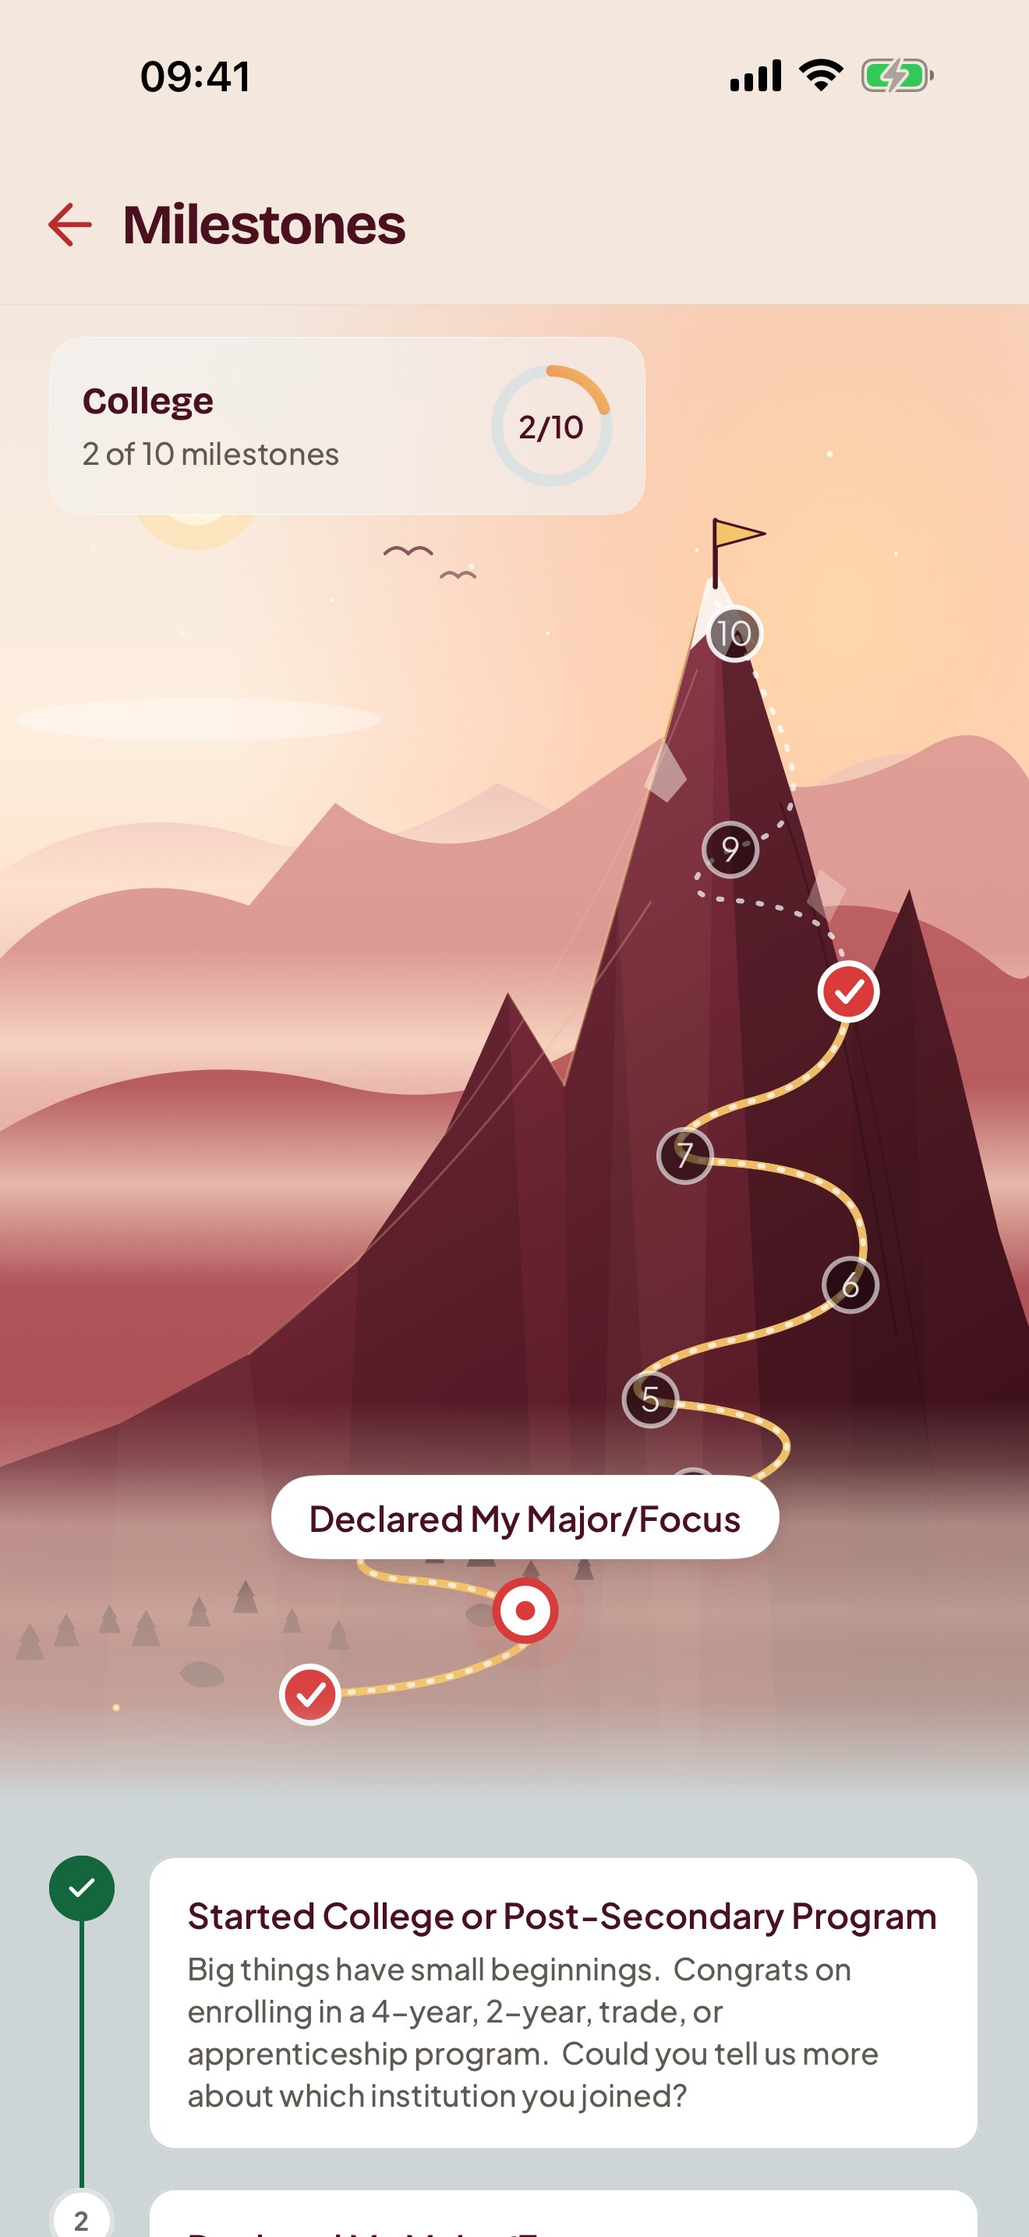
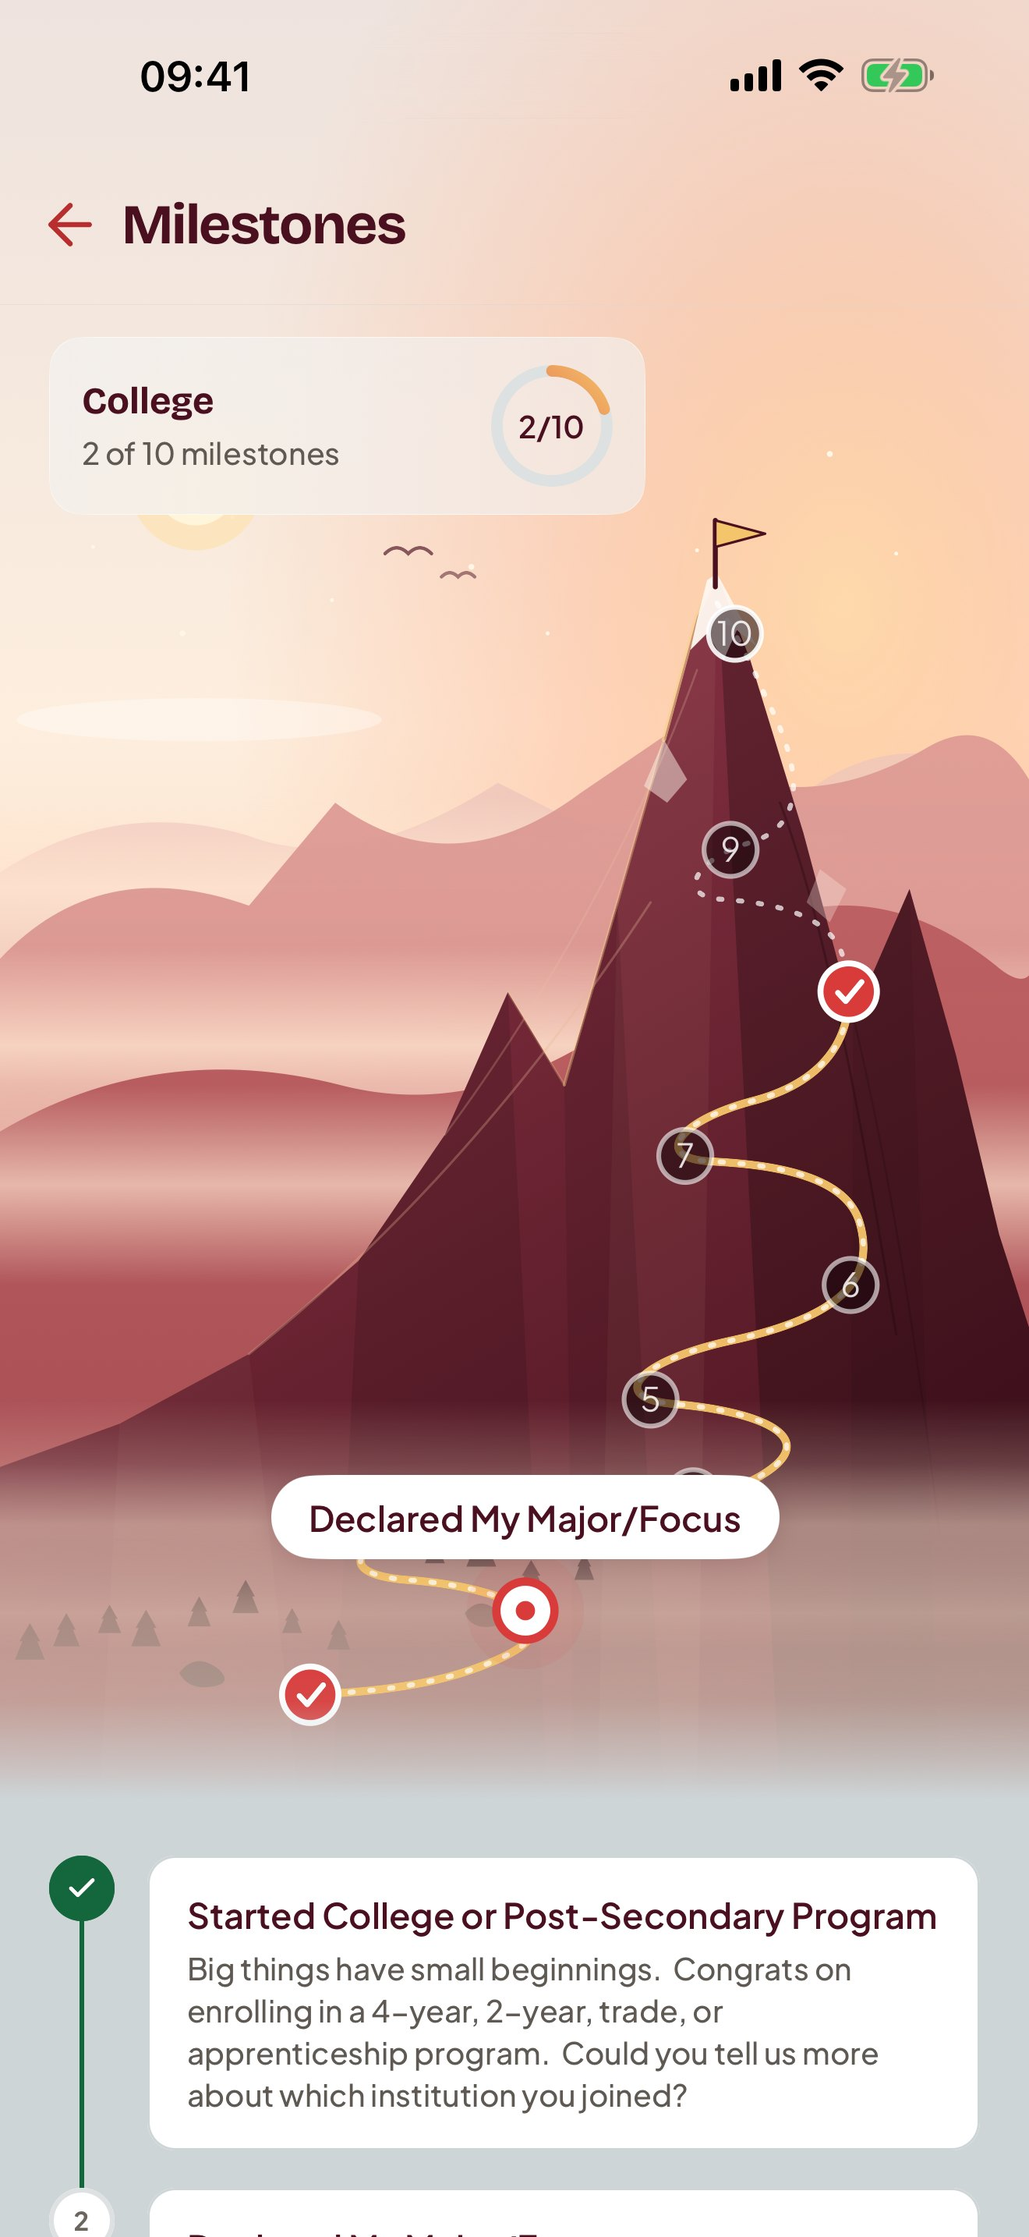
Frame 06 recaptured: the Milestones sky now runs up through the header
Same frame on the current build. The Sep 4 capture predates cf7d5dd and 8c3133e,
so its header was a flat cream band with a hard edge under the title.

Changed region(s): [[0.497, 0.0, 1.0, 0.1552]]

diff --git a/index.html b/index.html
@@ -501,7 +501,7 @@ body.export .frame-wrap .frame { transform: none; }
 
 <div class="store">
   <div class="store-header">
-    <img class="store-icon" src="assets/icon-b-1024.png?v=202609042205?v=2" alt="P3 app icon">
+    <img class="store-icon" src="assets/icon-b-1024.png?v=202609070821?v=2" alt="P3 app icon">
     <div class="store-meta">
       <h1>P3: Pulse of Perseverance</h1>
       <div class="subtitle">Empower Education &amp; Mentorship</div>
@@ -523,9 +523,9 @@ body.export .frame-wrap .frame { transform: none; }
         <div class="frame-wrap" data-zoom="frame-01">
           <div class="frame" id="frame-01">
             <div class="pano open-pair">
-              <div class="pano-watermark"><img src="assets/campus-bg.jpg?v=202609042205" alt=""></div>
+              <div class="pano-watermark"><img src="assets/campus-bg.jpg?v=202609070821" alt=""></div>
               <div class="brand-col">
-                <img class="wordmark" src="assets/p3-logo-horizontal.png?v=202609042205" alt="P3 Pulse of Perseverance">
+                <img class="wordmark" src="assets/p3-logo-horizontal.png?v=202609070821" alt="P3 Pulse of Perseverance">
                 <div class="statement">The career<br>accelerator<br>for the <em>next<br>generation.</em></div>
                 <div class="index">
                   <div class="row">
@@ -556,7 +556,7 @@ body.export .frame-wrap .frame { transform: none; }
               </div>
               <div class="device tilt">
                 <div class="screen">
-                  <img class="capture" src="captures/home.jpg?v=202609042205" alt="P3 home feed">
+                  <img class="capture" src="captures/home.jpg?v=202609070821" alt="P3 home feed">
                 </div>
               </div>
             </div>
@@ -566,9 +566,9 @@ body.export .frame-wrap .frame { transform: none; }
         <div class="frame-wrap" data-zoom="frame-02">
           <div class="frame pr" id="frame-02">
             <div class="pano open-pair">
-              <div class="pano-watermark"><img src="assets/campus-bg.jpg?v=202609042205" alt=""></div>
+              <div class="pano-watermark"><img src="assets/campus-bg.jpg?v=202609070821" alt=""></div>
               <div class="brand-col">
-                <img class="wordmark" src="assets/p3-logo-horizontal.png?v=202609042205" alt="">
+                <img class="wordmark" src="assets/p3-logo-horizontal.png?v=202609070821" alt="">
                 <div class="statement">The career<br>accelerator<br>for the <em>next<br>generation.</em></div>
                 <div class="index">
                   <div class="row">
@@ -599,7 +599,7 @@ body.export .frame-wrap .frame { transform: none; }
               </div>
               <div class="device tilt">
                 <div class="screen">
-                  <img class="capture" src="captures/home.jpg?v=202609042205" alt="P3 home feed">
+                  <img class="capture" src="captures/home.jpg?v=202609070821" alt="P3 home feed">
                 </div>
               </div>
             </div>
@@ -635,22 +635,22 @@ body.export .frame-wrap .frame { transform: none; }
               <line x1="660" y1="950" x2="1000" y2="1560" stroke="rgba(255,255,255,0.10)" stroke-width="2"/>
               <line x1="660" y1="950" x2="210" y2="1630" stroke="rgba(255,255,255,0.10)" stroke-width="2"/>
             </svg>
-            <div class="c-node" style="width:170px;height:170px;left:875px;top:615px"><img src="assets/mentors/thomas.jpg?v=202609042205" alt="Thomas, P3 mentor"></div>
+            <div class="c-node" style="width:170px;height:170px;left:875px;top:615px"><img src="assets/mentors/thomas.jpg?v=202609070821" alt="Thomas, P3 mentor"></div>
             <div class="c-tag" style="left:865px;top:800px">97% match</div>
-            <div class="c-node" style="width:170px;height:170px;left:245px;top:715px"><img src="assets/mentors/m2.jpg?v=202609042205" alt=""></div>
+            <div class="c-node" style="width:170px;height:170px;left:245px;top:715px"><img src="assets/mentors/m2.jpg?v=202609070821" alt=""></div>
             <div class="c-tag" style="left:210px;top:900px">94% match</div>
-            <div class="c-node" style="width:170px;height:170px;left:615px;top:1335px"><img src="assets/mentors/m3.jpg?v=202609042205" alt=""></div>
+            <div class="c-node" style="width:170px;height:170px;left:615px;top:1335px"><img src="assets/mentors/m3.jpg?v=202609070821" alt=""></div>
             <div class="c-tag" style="left:610px;top:1520px">92% match</div>
-            <div class="c-node" style="width:130px;height:130px;left:985px;top:1115px"><img src="assets/mentors/m4.jpg?v=202609042205" alt=""></div>
-            <div class="c-node" style="width:130px;height:130px;left:175px;top:1185px"><img src="assets/mentors/m5.jpg?v=202609042205" alt=""></div>
-            <div class="c-node" style="width:130px;height:130px;left:435px;top:415px"><img src="assets/mentors/m6.jpg?v=202609042205" alt=""></div>
-            <div class="c-node" style="width:108px;height:108px;left:1035px;top:465px"><img src="assets/mentors/m7.jpg?v=202609042205" alt=""></div>
-            <div class="c-node" style="width:108px;height:108px;left:125px;top:475px"><img src="assets/mentors/m8.jpg?v=202609042205" alt=""></div>
-            <div class="c-node" style="width:108px;height:108px;left:1075px;top:825px"><img src="assets/mentors/m9.jpg?v=202609042205" alt=""></div>
-            <div class="c-node" style="width:118px;height:118px;left:150px;top:1580px"><img src="assets/mentors/m10.jpg?v=202609042205" alt=""></div>
-            <div class="c-node" style="width:126px;height:126px;left:945px;top:1500px"><img src="assets/mentors/m11.jpg?v=202609042205" alt=""></div>
-            <div class="c-node" style="width:100px;height:100px;left:1150px;top:1230px"><img src="assets/mentors/m12.jpg?v=202609042205" alt=""></div>
-            <div class="c-node" style="width:96px;height:96px;left:560px;top:165px"><img src="assets/mentors/m13.jpg?v=202609042205" alt=""></div>
+            <div class="c-node" style="width:130px;height:130px;left:985px;top:1115px"><img src="assets/mentors/m4.jpg?v=202609070821" alt=""></div>
+            <div class="c-node" style="width:130px;height:130px;left:175px;top:1185px"><img src="assets/mentors/m5.jpg?v=202609070821" alt=""></div>
+            <div class="c-node" style="width:130px;height:130px;left:435px;top:415px"><img src="assets/mentors/m6.jpg?v=202609070821" alt=""></div>
+            <div class="c-node" style="width:108px;height:108px;left:1035px;top:465px"><img src="assets/mentors/m7.jpg?v=202609070821" alt=""></div>
+            <div class="c-node" style="width:108px;height:108px;left:125px;top:475px"><img src="assets/mentors/m8.jpg?v=202609070821" alt=""></div>
+            <div class="c-node" style="width:108px;height:108px;left:1075px;top:825px"><img src="assets/mentors/m9.jpg?v=202609070821" alt=""></div>
+            <div class="c-node" style="width:118px;height:118px;left:150px;top:1580px"><img src="assets/mentors/m10.jpg?v=202609070821" alt=""></div>
+            <div class="c-node" style="width:126px;height:126px;left:945px;top:1500px"><img src="assets/mentors/m11.jpg?v=202609070821" alt=""></div>
+            <div class="c-node" style="width:100px;height:100px;left:1150px;top:1230px"><img src="assets/mentors/m12.jpg?v=202609070821" alt=""></div>
+            <div class="c-node" style="width:96px;height:96px;left:560px;top:165px"><img src="assets/mentors/m13.jpg?v=202609070821" alt=""></div>
             <div class="c-you"><svg viewBox="0 0 24 24" style="width:96px;height:96px;stroke:#fff;fill:none;stroke-width:2.1;stroke-linecap:round;stroke-linejoin:round"><circle cx="12" cy="8" r="3.6"/><path d="M5 20a7 7 0 0 1 14 0"/></svg></div>
             <div class="c-you-label">You</div>
           </div>
@@ -672,7 +672,7 @@ body.export .frame-wrap .frame { transform: none; }
           <div class="stage">
             <div class="device">
               <div class="screen">
-                <img class="capture" src="captures/video.jpg?v=202609042205" alt="Video answer from a mentor">
+                <img class="capture" src="captures/video.jpg?v=202609070821" alt="Video answer from a mentor">
               </div>
             </div>
           </div>
@@ -686,7 +686,7 @@ body.export .frame-wrap .frame { transform: none; }
     <div class="slot">
       <div class="frame-wrap" data-zoom="frame-05">
         <div class="frame dark f-opps" id="frame-05">
-          <div class="photo-bg"><img src="assets/opps-bg.jpg?v=202609042205" alt=""></div>
+          <div class="photo-bg"><img src="assets/opps-bg.jpg?v=202609070821" alt=""></div>
           <div class="photo-overlay"></div>
           <div class="caption">
             <div class="headline">Scholarships.<br>Internships. <em>Jobs.</em></div>
@@ -695,7 +695,7 @@ body.export .frame-wrap .frame { transform: none; }
           <div class="stage">
             <div class="device">
               <div class="screen">
-                <img class="capture" src="captures/opportunities.jpg?v=202609042205" alt="Live scholarships feed">
+                <img class="capture" src="captures/opportunities.jpg?v=202609070821" alt="Live scholarships feed">
               </div>
             </div>
           </div>
@@ -722,7 +722,7 @@ body.export .frame-wrap .frame { transform: none; }
           <div class="stage">
             <div class="device">
               <div class="screen">
-                <img class="capture" src="captures/milestones.jpg?v=202609042205" alt="Milestone pathway">
+                <img class="capture" src="captures/milestones.jpg?v=202609070821" alt="Milestone pathway">
               </div>
             </div>
           </div>
@@ -744,7 +744,7 @@ body.export .frame-wrap .frame { transform: none; }
           <div class="stage">
             <div class="device">
               <div class="screen">
-                <img class="capture" src="captures/mentor.jpg?v=202609042205" alt="Mentor profile">
+                <img class="capture" src="captures/mentor.jpg?v=202609070821" alt="Mentor profile">
               </div>
             </div>
           </div>
@@ -758,7 +758,7 @@ body.export .frame-wrap .frame { transform: none; }
     <div class="slot">
       <div class="frame-wrap" data-zoom="frame-08">
         <div class="frame dark f-recog" id="frame-08">
-          <div class="recog-bg"><img src="assets/recognized-bg.jpg?v=202609042205" alt=""></div>
+          <div class="recog-bg"><img src="assets/recognized-bg.jpg?v=202609070821" alt=""></div>
           <div class="recog-wash"></div>
           <div class="caption">
             <div class="headline">Recognized by<br><em>the best.</em></div>
@@ -767,42 +767,42 @@ body.export .frame-wrap .frame { transform: none; }
           <div class="wall">
             <div class="w-label">AS SEEN IN</div>
             <div class="w-grid m3">
-              <div class="wt media"><img src="assets/logos/abc-news.png?v=202609042205" alt="ABC News" style="max-height:180px"></div>
-              <div class="wt media"><img src="assets/logos/nyt-square.png?v=202609042205" alt="The New York Times" style="max-height:142px"></div>
-              <div class="wt media"><img src="assets/logos/today.png?v=202609042205" alt="today"></div>
-              <div class="wt media"><img src="assets/logos/adweek.png?v=202609042205" alt="Advertising Week New York" style="width:100%;max-height:none"></div>
-              <div class="wt media"><img src="assets/logos/telly.png?v=202609042205" alt="The Telly Awards" style="max-height:158px"></div>
-              <div class="wt media" style="gap:14px"><img src="assets/logos/webby.svg?v=202609042205" alt="Webby Awards" style="height:128px;width:auto;flex:none"><div style="font-family:var(--body);font-weight:800;font-size:30px;line-height:1.1;color:#191919;letter-spacing:0.5px">THE<br>WEBBY<br>AWARDS</div></div>
+              <div class="wt media"><img src="assets/logos/abc-news.png?v=202609070821" alt="ABC News" style="max-height:180px"></div>
+              <div class="wt media"><img src="assets/logos/nyt-square.png?v=202609070821" alt="The New York Times" style="max-height:142px"></div>
+              <div class="wt media"><img src="assets/logos/today.png?v=202609070821" alt="today"></div>
+              <div class="wt media"><img src="assets/logos/adweek.png?v=202609070821" alt="Advertising Week New York" style="width:100%;max-height:none"></div>
+              <div class="wt media"><img src="assets/logos/telly.png?v=202609070821" alt="The Telly Awards" style="max-height:158px"></div>
+              <div class="wt media" style="gap:14px"><img src="assets/logos/webby.svg?v=202609070821" alt="Webby Awards" style="height:128px;width:auto;flex:none"><div style="font-family:var(--body);font-weight:800;font-size:30px;line-height:1.1;color:#191919;letter-spacing:0.5px">THE<br>WEBBY<br>AWARDS</div></div>
             </div>
             <div class="w-gap"></div>
             <div class="w-label">ACADEMIC PARTNERS</div>
             <div class="w-grid p3c">
-              <div class="wt partner"><img src="assets/logos/cps.png?v=202609042205" alt="cps"></div>
-              <div class="wt partner"><img src="assets/logos/csu.png?v=202609042205" alt="csu"></div>
-              <div class="wt partner"><img src="assets/logos/langston.png?v=202609042205" alt="langston"></div>
-              <div class="wt partner"><img src="assets/logos/xavier.png?v=202609042205" alt="xavier"></div>
-              <div class="wt partner"><img src="assets/logos/nyu.png?v=202609042205" alt="nyu"></div>
-              <div class="wt partner"><img src="assets/logos/leo.png?v=202609042205" alt="leo"></div>
+              <div class="wt partner"><img src="assets/logos/cps.png?v=202609070821" alt="cps"></div>
+              <div class="wt partner"><img src="assets/logos/csu.png?v=202609070821" alt="csu"></div>
+              <div class="wt partner"><img src="assets/logos/langston.png?v=202609070821" alt="langston"></div>
+              <div class="wt partner"><img src="assets/logos/xavier.png?v=202609070821" alt="xavier"></div>
+              <div class="wt partner"><img src="assets/logos/nyu.png?v=202609070821" alt="nyu"></div>
+              <div class="wt partner"><img src="assets/logos/leo.png?v=202609070821" alt="leo"></div>
             </div>
             <div class="w-gap"></div>
             <div class="w-label">COMMUNITY &amp; FOUNDATION PARTNERS</div>
             <div class="w-grid p3c">
-              <div class="wt partner"><img src="assets/logos/mbk.png?v=202609042205" alt="mbk"></div>
-              <div class="wt partner"><img src="assets/logos/champs.png?v=202609042205" alt="champs"></div>
-              <div class="wt partner"><img src="assets/logos/100bm.png?v=202609042205" alt="100bm"></div>
-              <div class="wt partner"><img src="assets/logos/build.png?v=202609042205" alt="build" style="max-height:88px"></div>
-              <div class="wt partner"><img src="assets/logos/project-hood.png?v=202609042205" alt="Project HOOD" style="filter:brightness(0)"></div>
-              <div class="wt partner"><img src="assets/logos/gilead.png?v=202609042205" alt="gilead"></div>
+              <div class="wt partner"><img src="assets/logos/mbk.png?v=202609070821" alt="mbk"></div>
+              <div class="wt partner"><img src="assets/logos/champs.png?v=202609070821" alt="champs"></div>
+              <div class="wt partner"><img src="assets/logos/100bm.png?v=202609070821" alt="100bm"></div>
+              <div class="wt partner"><img src="assets/logos/build.png?v=202609070821" alt="build" style="max-height:88px"></div>
+              <div class="wt partner"><img src="assets/logos/project-hood.png?v=202609070821" alt="Project HOOD" style="filter:brightness(0)"></div>
+              <div class="wt partner"><img src="assets/logos/gilead.png?v=202609070821" alt="gilead"></div>
             </div>
             <div class="w-gap"></div>
             <div class="w-label">KNOWLEDGE &amp; INDUSTRY PARTNERS</div>
             <div class="w-grid p3c">
-              <div class="wt partner"><img src="assets/logos/google.png?v=202609042205" alt="google"></div>
-              <div class="wt partner"><img src="assets/logos/mentor.png?v=202609042205" alt="mentor"></div>
-              <div class="wt partner"><img src="assets/logos/versus.png?v=202609042205" alt="Versus" style="width:78%;max-height:none"></div>
-              <div class="wt partner"><img src="assets/logos/michigan.png?v=202609042205" alt="michigan"></div>
-              <div class="wt partner"><img src="assets/logos/kepler.png?v=202609042205" alt="Kepler" style="width:82%;max-height:none"></div>
-              <div class="wt partner"><img src="assets/logos/3advance.png?v=202609042205" alt="3advance"></div>
+              <div class="wt partner"><img src="assets/logos/google.png?v=202609070821" alt="google"></div>
+              <div class="wt partner"><img src="assets/logos/mentor.png?v=202609070821" alt="mentor"></div>
+              <div class="wt partner"><img src="assets/logos/versus.png?v=202609070821" alt="Versus" style="width:78%;max-height:none"></div>
+              <div class="wt partner"><img src="assets/logos/michigan.png?v=202609070821" alt="michigan"></div>
+              <div class="wt partner"><img src="assets/logos/kepler.png?v=202609070821" alt="Kepler" style="width:82%;max-height:none"></div>
+              <div class="wt partner"><img src="assets/logos/3advance.png?v=202609070821" alt="3advance"></div>
             </div>
           </div>
           <div class="grain"></div>
@@ -832,7 +832,7 @@ body.export .frame-wrap .frame { transform: none; }
                   <div class="url-chip">platform.pulseofp3.org</div>
                 </div>
                 <div class="web-screen">
-                  <img class="capture" src="captures/web-home.jpg?v=202609042205" alt="P3 web platform, Milestones view">
+                  <img class="capture" src="captures/web-home.jpg?v=202609070821" alt="P3 web platform, Milestones view">
                 </div>
               </div>
               <div class="web-excl">
@@ -843,7 +843,7 @@ body.export .frame-wrap .frame { transform: none; }
               </div>
               <div class="device close-phone">
                 <div class="screen">
-                  <img class="capture" src="captures/home.jpg?v=202609042205" alt="P3 app home on a phone">
+                  <img class="capture" src="captures/home.jpg?v=202609070821" alt="P3 app home on a phone">
                 </div>
               </div>
             </div>
@@ -868,7 +868,7 @@ body.export .frame-wrap .frame { transform: none; }
                   <div class="url-chip">platform.pulseofp3.org</div>
                 </div>
                 <div class="web-screen">
-                  <img class="capture" src="captures/web-home.jpg?v=202609042205" alt="P3 web platform, Milestones view">
+                  <img class="capture" src="captures/web-home.jpg?v=202609070821" alt="P3 web platform, Milestones view">
                 </div>
               </div>
               <div class="web-excl">
@@ -879,7 +879,7 @@ body.export .frame-wrap .frame { transform: none; }
               </div>
               <div class="device close-phone">
                 <div class="screen">
-                  <img class="capture" src="captures/home.jpg?v=202609042205" alt="P3 app home on a phone">
+                  <img class="capture" src="captures/home.jpg?v=202609070821" alt="P3 app home on a phone">
                 </div>
               </div>
             </div>
@@ -928,7 +928,7 @@ body.export .frame-wrap .frame { transform: none; }
       var span = document.createElement('span');
       span.className = 'frost-bg';
       span.style.backgroundImage =
-        'linear-gradient(rgba(255,255,255,0.34), rgba(255,255,255,0.34)), url(assets/recognized-bg.jpg?v=202609042205)';
+        'linear-gradient(rgba(255,255,255,0.34), rgba(255,255,255,0.34)), url(assets/recognized-bg.jpg?v=202609070821)';
       span.style.backgroundSize = 'auto, ' + dw + 'px ' + dh + 'px';
       span.style.backgroundPosition = '0 0, ' + (ox - (tx - BLEED)) + 'px ' + (oy - (ty - BLEED)) + 'px';
       t.insertBefore(span, t.firstChild);
